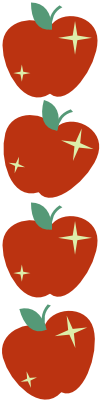
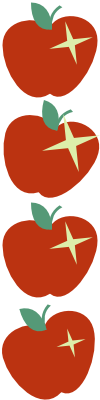
add apple sparkle, add game win modal

diff --git a/dist/bundle.js b/dist/bundle.js
@@ -94,7 +94,7 @@
 /***/ (function(module, __webpack_exports__, __webpack_require__) {
 
 "use strict";
[2 lines of base64/hex data omitted]
 
 /***/ }),
 
@@ -106,7 +106,19 @@ eval("__webpack_require__.r(__webpack_exports__);\nclass BigBadWolf {\n  constru
 /***/ (function(module, __webpack_exports__, __webpack_require__) {
 
 "use strict";
[2 lines of base64/hex data omitted]
+
+/***/ }),
+
+/***/ "./lib/grandmas_house.js":
+/*!*******************************!*\
+  !*** ./lib/grandmas_house.js ***!
+  \*******************************/
+/*! exports provided: default */
+/***/ (function(module, __webpack_exports__, __webpack_require__) {
+
+"use strict";
[1 lines of base64/hex data omitted]
 
 /***/ }),
 
@@ -118,7 +130,7 @@ eval("__webpack_require__.r(__webpack_exports__);\n/* harmony import */ var _lit
 /***/ (function(module, __webpack_exports__, __webpack_require__) {
 
 "use strict";
[2 lines of base64/hex data omitted]
 
 /***/ }),
 
@@ -154,7 +166,7 @@ eval("__webpack_require__.r(__webpack_exports__);\n/* harmony import */ var _sta
 /***/ (function(module, __webpack_exports__, __webpack_require__) {
 
 "use strict";
[2 lines of base64/hex data omitted]
 
 /***/ }),
 

diff --git a/lib/game.js b/lib/game.js
@@ -3,6 +3,7 @@ import BigBadWolf from "./big_bad_wolf";
 import ParallaxLayer from "./parallax_layer";
 import Item from "./item";
 import ScreenText from "./screen_text";
+import GrandmasHouse from "./grandmas_house";
 
 class Game {
   constructor(canvas, far, mid, near, fore) {
@@ -19,10 +20,13 @@ class Game {
     this.foreContext = fore.getContext('2d');
 
     this.level = 1;
-    this.points = 0;
+    this.apples = 0;
     this.pause = true;
     this.sound = true;
     this.stamina = 800;
+    // this.grandmas_house = false;
+    this.winTransition = false;
+    this.isWon = false;
 
     this.initializeGame();
     this.initializeElements();
@@ -30,6 +34,7 @@ class Game {
     this.jump = this.jump.bind(this);
     this.playAgain = this.playAgain.bind(this);
     this.checkCollision = this.checkCollision.bind(this);
+    this.won = this.won.bind(this);
   }
 
   initializeGame() {
@@ -47,6 +52,7 @@ class Game {
       new Item(this.context, 'highApple', 1375, 1400),
       new Item(this.context, 'highApple', 2075, 1600)
     ];
+    // this.house = new GrandmasHouse(this.midContext);
   }
 
   initializeParallax() {
@@ -68,7 +74,7 @@ class Game {
       if (this.littleRed.isTouching(item)) {
         item.xPos += item.xOffset;
         this.bigBadWolf.speed -= item.value;
-        this.points += item.points;
+        this.apples += 1;
         if (this.sound) {
           item.sound.play();
         }
@@ -85,6 +91,8 @@ class Game {
     this.items.forEach(item => {
       item.value = 0;
     });
+    this.winTransition = true;
+    // this.grandmas_house = true;
   }
 
   jump(e) {
@@ -96,18 +104,26 @@ class Game {
   playAgain() {
     this.pause = true;
     this.level = 1;
-    this.points = 0;
+    this.apples = 0;
     this.stamina = 800;
     this.initializeElements();
     this.foreGround.text = new ScreenText(this.context, this.level);
     this.context.clearRect(0, 0, 800, 400);
     this.foreGround.draw();
+    this.winTransition = false;
+    this.isWon = false;
   }
 
   renderBackgrounds() {
-    this.farGround.render(this.bigBadWolf.speed);
-    this.midGround.render(this.bigBadWolf.speed);
-    this.nearGround.render(this.bigBadWolf.speed);
+    if (this.winTransition) {
+      this.farGround.render(0.5);
+      this.midGround.render(0.5);
+      this.nearGround.render(0.5);
+    } else {
+      this.farGround.render(this.bigBadWolf.speed);
+      this.midGround.render(this.bigBadWolf.speed);
+      this.nearGround.render(this.bigBadWolf.speed);
+    }
   }
 
   renderItems() {
@@ -121,9 +137,26 @@ class Game {
     this.context.clearRect(0, 0, 800, 400);
     this.littleRed.render();
     this.bigBadWolf.render();
+    // if (this.grandmas_house) {
+    //   this.house.render();
+    //   if (this.house.finalPos) {
+    //     this.won = true;
+    //   }
+    // }
     this.renderItems();
     this.checkCollision();
-    this.foreGround.render(this.bigBadWolf.speed, this.bigBadWolf.xPos);
+
+    // foreground and winTransition Logic
+    if (this.winTransition) {
+      this.foreGround.render(0.5, this.bigBadWolf.xPos);
+      this.bigBadWolf.xPos -= 1;
+      if (this.bigBadWolf.xPos < -200) {
+        this.winTransition = false;
+        this.isWon = true;
+      }
+    } else {
+      this.foreGround.render(this.bigBadWolf.speed, this.bigBadWolf.xPos);
+    }
   }
 }
 

diff --git a/lib/red_riding.js b/lib/red_riding.js
@@ -16,10 +16,13 @@ document.addEventListener('DOMContentLoaded', () => {
   const playBtn = document.getElementById('play');
   const muteBtn = document.getElementById('mute');
   const unmuteBtn = document.getElementById('unmute');
+  const retryBtn = document.getElementById('retry');
   const playAgainBtn = document.getElementById('play-again');
 
   const clock = document.getElementById('timer');
+  const gameWon = document.getElementById('game-won');
   const gameOver = document.getElementById('game-over');
+  const appleCount = document.getElementById('apple-count');
   let animationId;
 
   const music = new Audio('./assets/sound/PP_possession.mp3');
@@ -27,6 +30,7 @@ document.addEventListener('DOMContentLoaded', () => {
 
   timer.addEventListener('secondTenthsUpdated', () => {
     clock.innerHTML = timer.getTimeValues().toString(['minutes', 'seconds', 'secondTenths']);
+    appleCount.innerHTML = `${game.apples} Apples Collected`;
 
     const minutes = timer.getTimeValues().minutes;
     const seconds = timer.getTimeValues().seconds;
@@ -35,11 +39,12 @@ document.addEventListener('DOMContentLoaded', () => {
     if (seconds % 10 === 0 && tenths === 0 && game.sound) {
       game.bigBadWolf.growl();
     }
-    if (seconds % 30 === 0 && tenths === 0) {
+    if (seconds % 20 === 0 && tenths === 0) {
       game.addLevel();
     }
-    if (minutes === 5) {
+    if (minutes === 3 && seconds === 20) {
       game.won();
+      timer.stop();
     }
   });
 
@@ -53,6 +58,11 @@ document.addEventListener('DOMContentLoaded', () => {
       if (game.sound) game.bigBadWolf.growl();
       timer.stop();
       gameOver.classList.remove('hidden');
+    } else if (game.isWon) {
+      cancelAnimationFrame(animationId);
+      game.littleRed.sound.pause();
+      timer.stop();
+      gameWon.classList.remove('hidden');
     }
   }
 
@@ -80,6 +90,12 @@ document.addEventListener('DOMContentLoaded', () => {
   };
 
   playAgainBtn.onclick = () => {
+    gameWon.classList.add('hidden');
+    clock.innerHTML = '00:00:0';
+    game.playAgain();
+  };
+
+  retryBtn.onclick = () => {
     gameOver.classList.add('hidden');
     clock.innerHTML = '00:00:0';
     game.playAgain();

diff --git a/assets/stylesheets/popups.css b/assets/stylesheets/popups.css
@@ -27,6 +27,25 @@ fore:   #235
   z-index: 5;
 }
 
+#game-won {
+  align-items: center;
+  background-color: #9C8;
+  border: 4px #235 solid;
+  border-radius: 8px;
+  box-sizing: border-box;
+  display: flex;
+  flex-direction: column;
+  height: 200px;
+  justify-content: space-around;
+  margin-top: 100px;
+  margin-left: 200px;
+  padding: 20px;
+  position: absolute;
+  text-align: center;
+  width: 400px;
+  z-index: 5;
+}
+
 h1 {
   color: #B31;
   font-family: 'Berkshire Swash', cursive;
@@ -34,7 +53,31 @@ h1 {
   margin: 0px;
 }
 
-#play-again {
+h3 {
+  color: #255;
+  font-family: 'Quicksand', sans-serif;
+  font-size: 28px;
+  font-weight: bold;
+  margin: 0px;
+}
+
+h4 {
+  color: #235;
+  font-family: 'Quicksand', sans-serif;
+  font-size: 18px;
+  font-weight: bold;
+  margin: 0px;
+}
+
+.apple {
+  position: absolute;
+  height: 60px;
+  width: 60px;
+  margin-top: 50px;
+  margin-left: 150px;
+}
+
+.play-again {
   height: 40px;
   width: 150px;
   background-color: #235;
@@ -47,5 +90,9 @@ h1 {
 }
 
 #game-over.hidden {
+  display: none;
+}
+
+#game-won.hidden {
   display: none;
 }

diff --git a/index.html b/index.html
@@ -32,7 +32,15 @@
     <h2 id='timer'>00:00:0</h2>
     <div id='game-over' class='hidden'>
       <h1>Game Over</h1>
-      <button id='play-again'>
+      <button id='retry' class='play-again'>
+        Play Again
+      </button>
+    </div>
+    <div id='game-won' class='hidden'>
+      <h3>You made it safely to Grandma's House.</h3>
+      <h4 id='apple-count'>0 Apples Collected</h4>
+      <img class='apple' src='./assets/images/elements/apple.png' />
+      <button id='play-again' class='play-again'>
         Play Again
       </button>
     </div>
@@ -62,7 +70,7 @@
   </div>
 
   <footer>
-    <h4>Created by Stephanie Keller</h4>
+    <h5>Created by Stephanie Keller</h5>
     <nav>
       <a href='https://ebokianlady.github.io/' target="_blank">
         <i class="far fa-circle"></i>

diff --git a/lib/item.js b/lib/item.js
@@ -1,7 +1,6 @@
 const HIGH_APPLE = {
   src: './assets/images/elements/apple3.png',
   value: 1,
-  points: 3,
   yPos: 60,
   dx: 35,
   dy: 35,
@@ -10,7 +9,6 @@ const HIGH_APPLE = {
 const MED_APPLE = {
   src: './assets/images/elements/apple2.png',
   value: 0.75,
-  points: 2,
   yPos: 140,
   dx: 35,
   dy: 35,
@@ -19,7 +17,6 @@ const MED_APPLE = {
 const LOW_APPLE = {
   src: './assets/images/elements/apple1.png',
   value: 0.5,
-  points: 1,
   yPos: 220,
   dx: 35,
   dy: 35,
@@ -41,7 +38,6 @@ class Item {
 
     this.context = context;
     this.value = this.options.value;
-    this.points = this.options.points;
     this.speed = 4;
     this.xPos = xPos;
     this.yPos = this.options.yPos;

diff --git a/lib/grandmas_house.js b/lib/grandmas_house.js
@@ -1,0 +1,23 @@
+class GrandmasHouse {
+  constructor(context) {
+    this.context = context;
+    this.speed = 2;
+    this.xPos = 800;
+    this.yPos = 150;
+    this.finalPos = false;
+
+    this.image = new Image();
+    this.image.src = './assets/images/elements/grandmas_house.png';
+    this.render = this.render.bind(this);
+  }
+
+  render() {
+    this.context.drawImage(
+      this.image, 0, 0, 500, 450, this.xPos, this.yPos, 250, 225
+    );
+    this.xPos -= this.speed;
+    if (this.xPos === 500) this.finalPos = true;
+  }
+}
+
+export default GrandmasHouse;

diff --git a/lib/big_bad_wolf.js b/lib/big_bad_wolf.js
@@ -38,7 +38,7 @@ class BigBadWolf {
 
   fallBack() {
     this.acceleration = 0;
-    this.speed = -0.5;
+    this.speed = 0;
     this.minXPos = -200;
   }
 

diff --git a/assets/stylesheets/display.css b/assets/stylesheets/display.css
@@ -122,7 +122,7 @@ footer {
   width: 816px;
 }
 
-h4 {
+h5 {
   font-size: 16px;
   font-weight: bold;
   margin-bottom: 20px;
